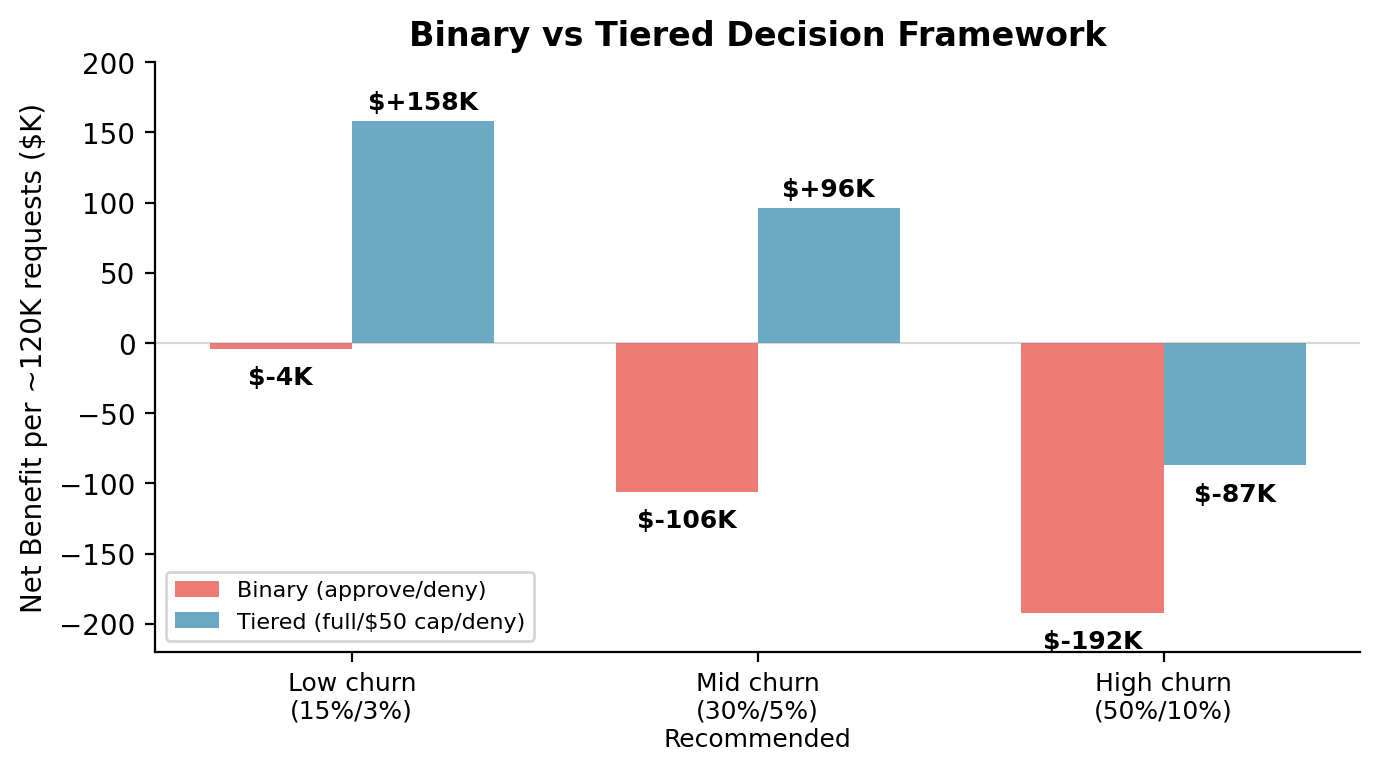
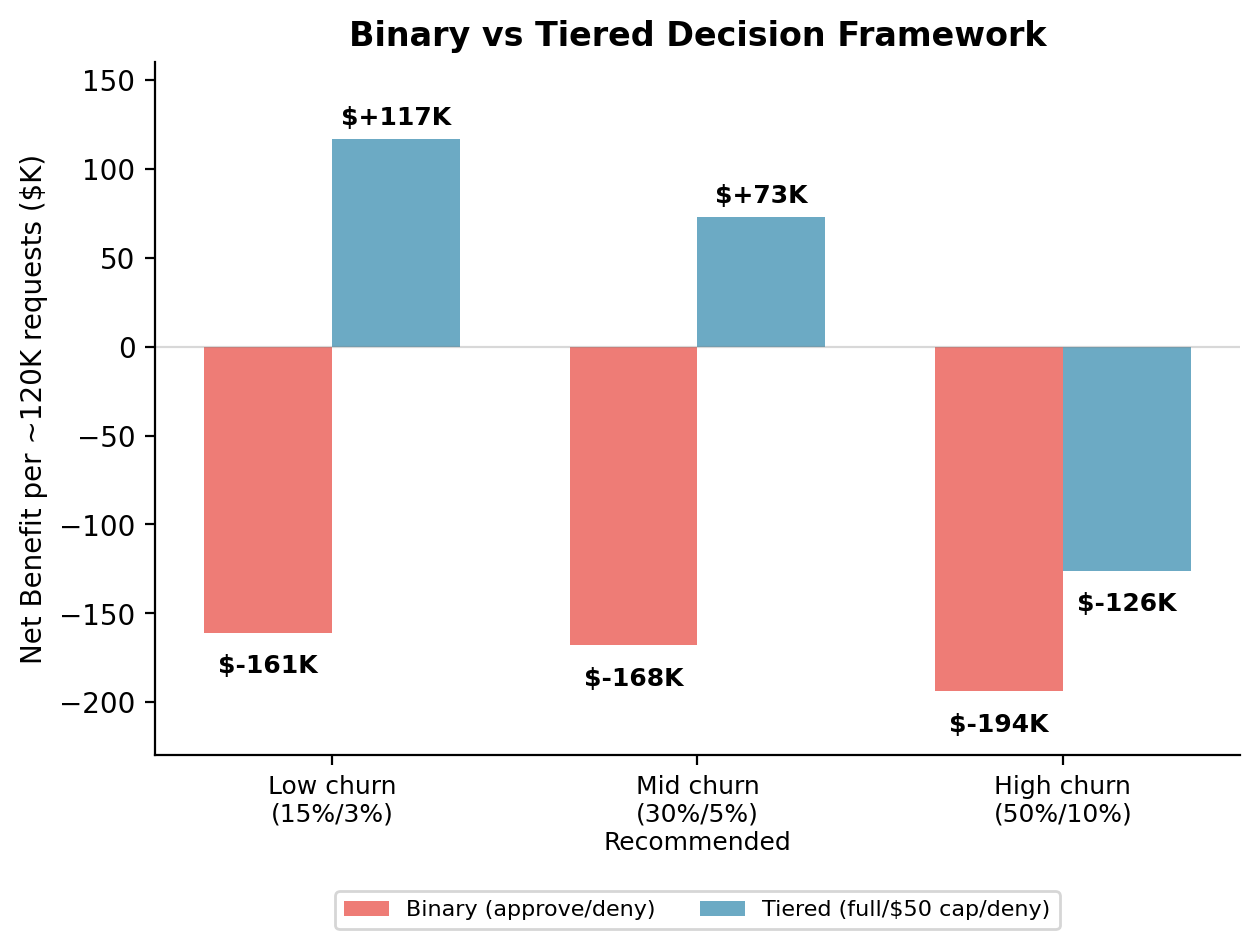
Remove stale SHAP limitation, trim notebook and writeup

diff --git a/risk_model/stakeholder_summary.md b/risk_model/stakeholder_summary.md
@@ -41,15 +41,15 @@ Rather than a binary approve/deny, we use a **three-tier decision framework**:
 | **Capped approval** | Borderline users | Approve at a reduced cap (e.g. $50) |
 | **Deny** | High-risk users | Decline with specific reasons |
 
-**Why tiers instead of approve/deny?** Denying a financially stressed worker outright carries high churn risk — they're unlikely to come back. But offering them $50 instead of $200 keeps them on the platform, limits our exposure to at most $50 if they default, and gives them a chance to build repayment history toward full approval. The economics are dramatically better: in our modeling, the tiered approach produces **~$96K net benefit** vs. **negative ROI** for binary approve/deny under realistic churn assumptions.
+**Why tiers instead of approve/deny?** Denying a financially stressed worker outright carries high churn risk — they're unlikely to come back. But offering them $50 instead of $200 keeps them on the platform, limits our exposure to at most $50 if they default, and gives them a chance to build repayment history toward full approval. The economics are dramatically better: in our modeling, the tiered approach produces **~$73K net benefit** vs. **negative ROI** for binary approve/deny under realistic churn assumptions.
 
 | Scenario | Binary net ROI | Tiered net ROI | Improvement |
 |---|---|---|---|
-| Low churn (15% deny / 3% cap) | -$4K | $158K | +$162K |
-| **Mid churn (30% deny / 5% cap)** | **-$106K** | **$96K** | **+$202K** |
-| High churn (50% deny / 10% cap) | -$192K | -$87K | +$106K |
+| Low churn (15% deny / 3% cap) | -$161K | $117K | +$278K |
+| **Mid churn (30% deny / 5% cap)** | **-$168K** | **$73K** | **+$241K** |
+| High churn (50% deny / 10% cap) | -$194K | -$126K | +$69K |
 
-Under the recommended mid-churn scenario: ~42% of users get full approval, ~57% get a capped offer, and only ~1% are denied outright.
+Under the recommended mid-churn scenario: ~58% of users get full approval, ~41% get a capped offer, and only ~2% are denied outright.
 
 **Both thresholds are business levers.** Raise the cap threshold to send more users toward full approval; raise the deny threshold to convert more denials into capped offers. No retraining needed — just move the cutoffs. The key inputs to calibrate are the **actual churn rates** for capped vs. denied users, measurable during shadow deployment.
 
@@ -66,10 +66,10 @@ We tested the model three ways: (1) ensuring users with multiple loans are never
 ## Expected business benefits
 
 **1. Better economics through tiered decisions**  
-The tiered framework produces ~$96K net benefit per ~120K requests under mid-churn assumptions — a $202K improvement over binary approve/deny. The key driver: capping borderline users at $50 instead of denying them preserves fee revenue and customer relationships while limiting default exposure.
+The tiered framework produces ~$73K net benefit per ~120K requests under mid-churn assumptions — a $241K improvement over binary approve/deny. The key driver: capping borderline users at $50 instead of denying them preserves fee revenue and customer relationships while limiting default exposure.
 
 **2. Near-zero denial rate**  
-Only ~1% of users are denied under the recommended scenario, vs. ~10%+ under binary. Users who would have been denied now receive a capped offer — a better experience that still protects the business.
+Only ~2% of users are denied under the recommended scenario, vs. ~10%+ under binary. Users who would have been denied now receive a capped offer — a better experience that still protects the business.
 
 **3. Natural onboarding ramp**  
 Capped users who repay build history toward full approval, creating a self-reinforcing cycle: good behavior → higher limit → more engagement → more fee revenue.